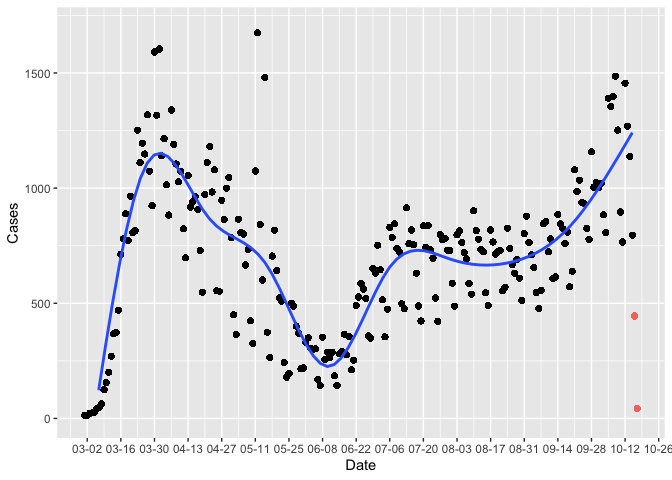
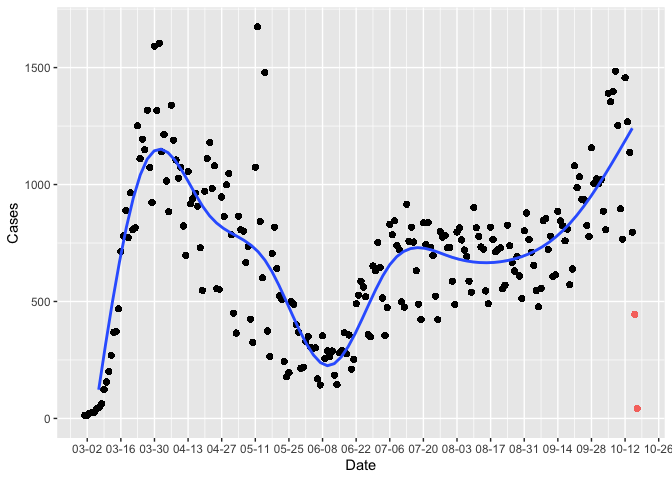
ylim(0, NA)

diff --git a/MiCorona.md b/MiCorona.md
@@ -52,7 +52,7 @@ Visualization:
 ``` r
 mi_cases_by_day_exclusive %>%
   ggplot(mapping = aes(x = Date, y = Cases)) +
-  ylim(c(0,1700)) +
+  ylim(c(0,NA)) +
   geom_point() + 
   geom_smooth() +
   geom_point(
